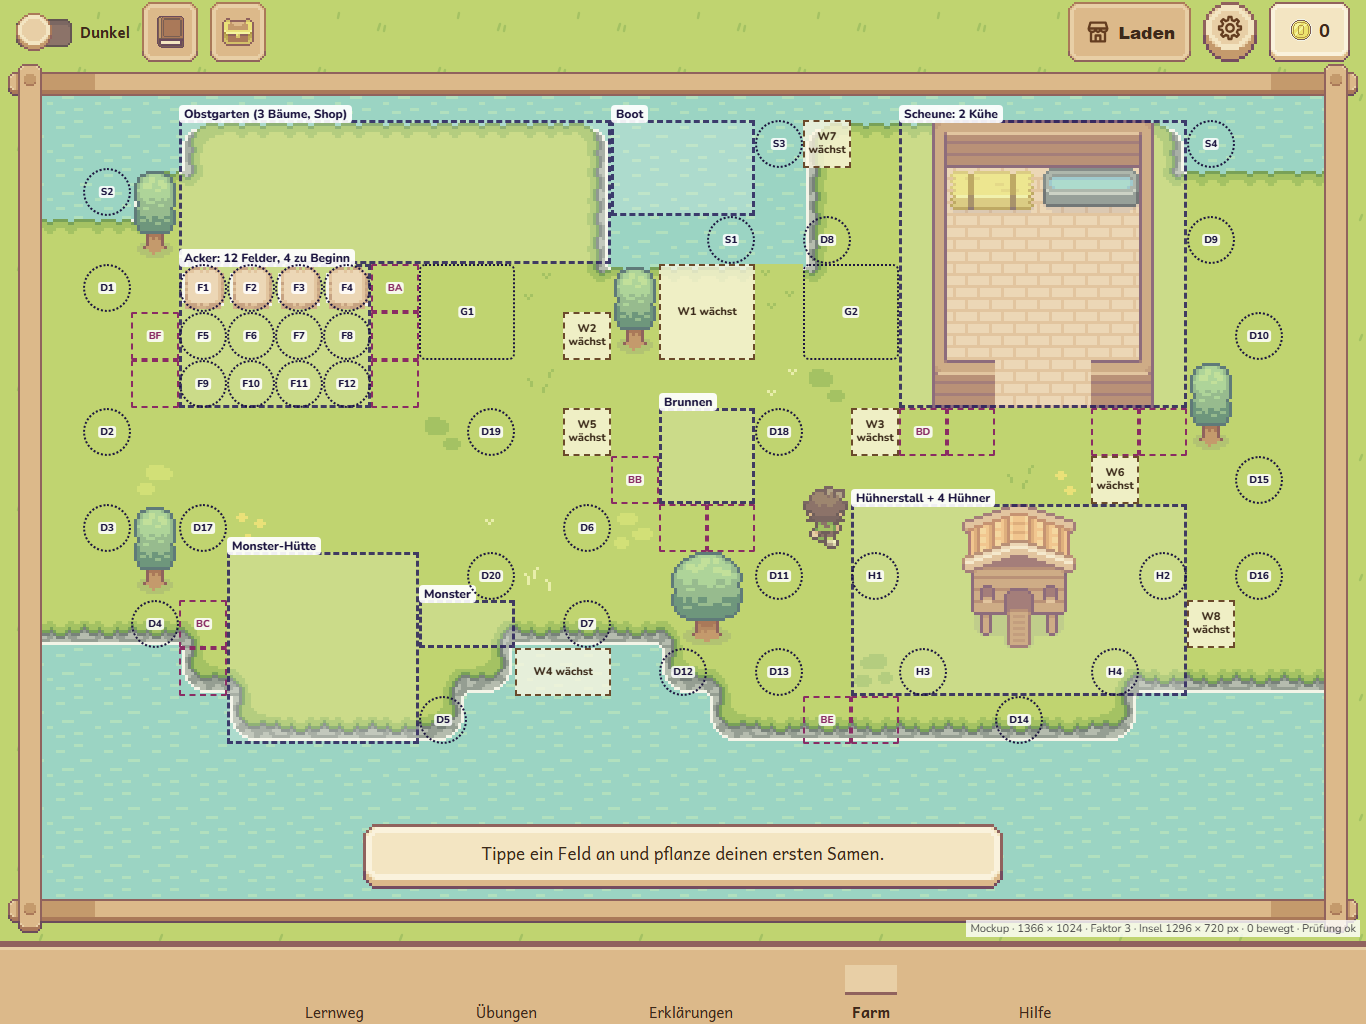
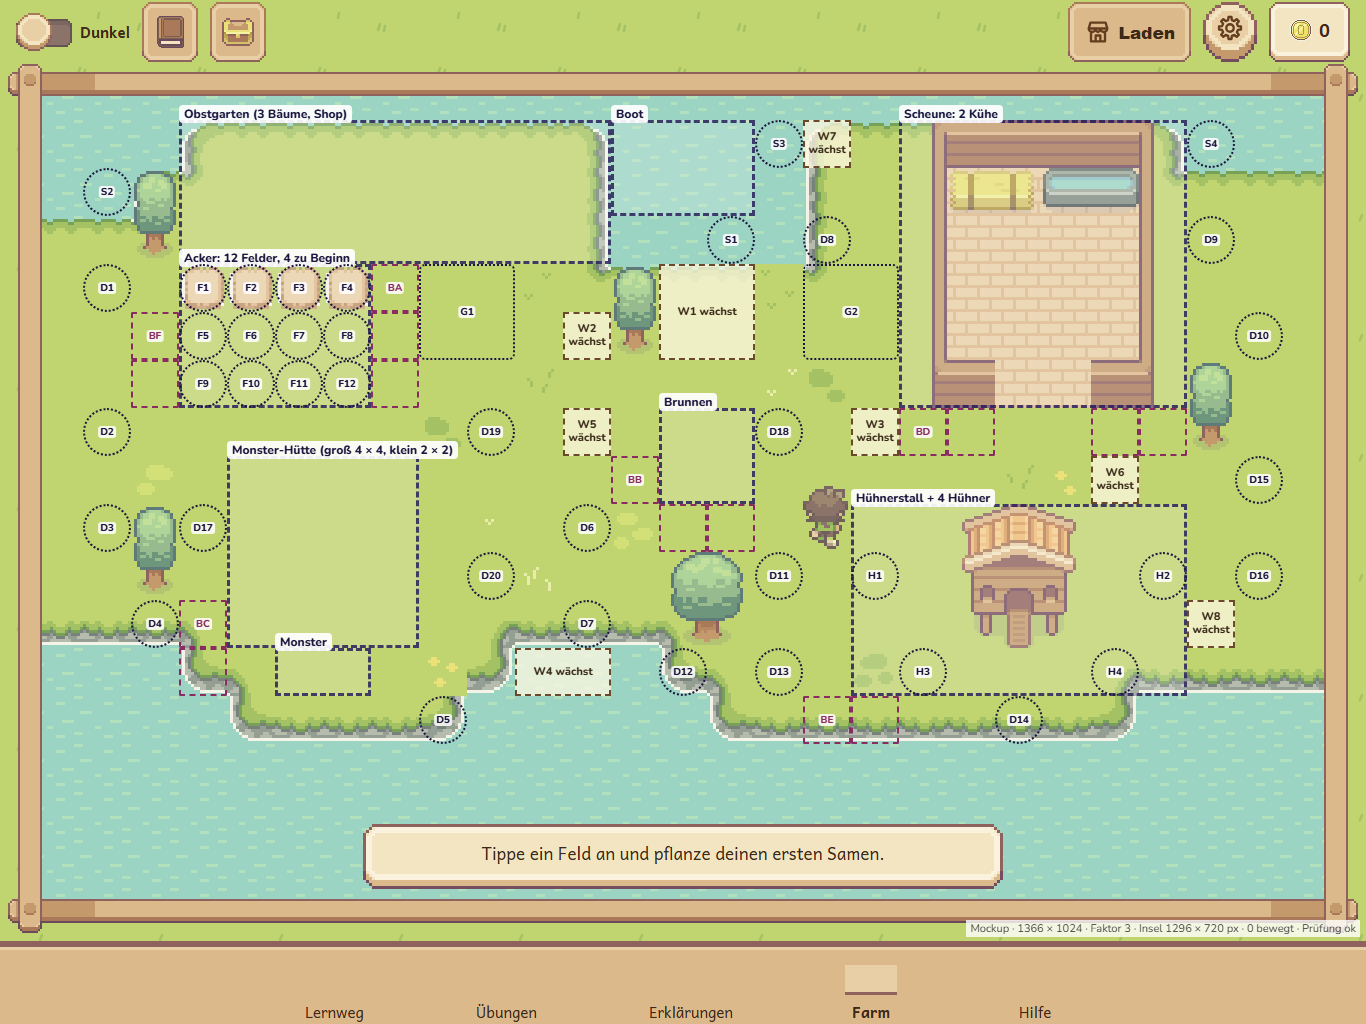
Farm-Mockups: Monster-Hütte weiter oben, kleine Hütte für kleine Monster

Changed region(s): [[0.1537, 0.4062, 0.3382, 0.5625], [0.1537, 0.5625, 0.3997, 0.7188]]

diff --git a/docs/farm/farm-mockup.js b/docs/farm/farm-mockup.js
@@ -38,9 +38,12 @@ const SCHEUNE = { x: 18, y: 1, b: 6, h: 6 }
 const KUEHE = [{ x: 19, y: 3 }, { x: 21, y: 3 }] // je 2 × 2, höchstens 2 (Jazz 2026-11-17)
 const STALL = { x: 19, y: 9 } // 3 × 3
 const HUEHNER = [{ x: 17, y: 10 }, { x: 23, y: 10 }, { x: 18, y: 12 }, { x: 22, y: 12 }]
-const HUETTE = { x: 4, y: 10 } // Bild 4 × 4
-// Jazz 2026-11-17: Monster läuft nie ins Wasser. Laufweg 2 Kacheln vor der Hütte; links, rechts und darunter ist Gras (Prüfung unten)
-const MONSTER = { x: 8, y: 11 }
+// Jazz 2026-11-17: Hütte weiter oben, der Eingang zeigt nicht mehr aufs Wasser. Platz 4 × 4 für die große Hütte (heutiges Bild);
+// kleine Monster (Gespenst, Spinnen, Maus) bekommen eine kleine Hütte 2 × 2 unten mittig auf diesem Platz (neue Grafik)
+const HUETTE = { x: 4, y: 8 }
+const HUETTE_KLEIN = { x: 5, y: 10 }
+// Jazz 2026-11-17: Monster läuft nie ins Wasser. Laufweg vor der Tür; links, rechts und darunter ist Gras (Prüfung unten)
+const MONSTER = { x: 5, y: 12 }
 const BRUNNEN = { x: 13, y: 7 } // 2 × 2
 const BOOT = { x: 12, y: 1 } // 3 × 2 im Wasser
 const FIGUR = { x: 16, y: 8 } // Füße auf Zeile 9
@@ -71,7 +74,7 @@ const BAEUME_FEST = [{ g: 'baum', x: 13, y: 10, b: 2, h: 2 }, { g: 'baum_klein',
   { g: 'baum_klein', x: 12, y: 4, b: 1, h: 2 }, { g: 'baum_klein', x: 2, y: 9, b: 1, h: 2 },
   // auf den Landstreifen (nur Landschaft)
   { g: 'baum', x: -3, y: 6, b: 2, h: 2 }, { g: 'baum_klein', x: -2, y: 9, b: 1, h: 2 }, { g: 'baum', x: 28, y: 5, b: 2, h: 2 }, { g: 'baum_klein', x: 27, y: 9, b: 1, h: 2 }]
-const GRAS_DEKO = [[10, 6], [8, 7], [4, 9], [10, 4], [12, 9], [15, 6], [17, 12], [21, 8], [15, 4], [2, 8], [10, 10], [9, 9], [20, 8], [16, 6], [-2, 4], [29, 8]]
+const GRAS_DEKO = [[10, 6], [8, 7], [8, 12], [10, 4], [12, 9], [15, 6], [17, 12], [21, 8], [15, 4], [2, 8], [10, 10], [9, 9], [20, 8], [16, 6], [-2, 4], [29, 8]]
 
 // ---------- Selbstprüfung: alles auf Gras, nichts überdeckt sich, Tippflächen 48 px überlappen nicht ----------
 const belegt = new Map()
@@ -196,7 +199,7 @@ async function zeichnen() {
     zone('Acker: 12 Felder, 4 zu Beginn', 3, 4, 4, 3)
     zone('Scheune: 2 Kühe', SCHEUNE.x, SCHEUNE.y, SCHEUNE.b, SCHEUNE.h)
     zone('Hühnerstall + 4 Hühner', 17, 9, 7, 4)
-    zone('Monster-Hütte', HUETTE.x, HUETTE.y, 4, 4)
+    zone('Monster-Hütte (groß 4 × 4, klein 2 × 2)', HUETTE.x, HUETTE.y, 4, 4)
     zone('Monster', MONSTER.x, MONSTER.y, 2, 1)
     zone('Boot', BOOT.x, BOOT.y, 3, 2)
     zone('Brunnen', BRUNNEN.x, BRUNNEN.y, 2, 2)
@@ -246,12 +249,13 @@ function volleFarm(p, setze, platzhalter) {
   platzhalter('Napf leer', 23, 9, 1, 1)
   platzhalter('Trog leer', 21, 2, 2, 1)
   // Monster (Maus) vor seiner Hütte (Dach Nr. 3), läuft hin und her; sein Geschenk liegt daneben und hüpft
-  ding(sprite('huette', 64, 64, 192, 192, 3, m), HUETTE.x, HUETTE.y, 4, 4)
+  // Die Maus ist ein kleines Monster: kleine Hütte (im Mockup das heutige Bild halb so groß, im Spiel eine neue Grafik 32 × 32)
+  ding(sprite('huette', 64, 64, 192, 192, 3, m / 2), HUETTE_KLEIN.x, HUETTE_KLEIN.y, 2, 2)
   ding(sprite('monster_maus', 16, 16, 208, 16, 0, m, 'laufen'), MONSTER.x, MONSTER.y, 1, 1, true)
   // Liegendes hüpft: Ei, Milch, Monster-Geschenk (Samentüte)
   ding(sprite('ei', 16, 16, 16, 16, 0, m, 'huepfen'), 18, 11, 1, 1, true)
   ding(sprite('milch', 16, 16, 16, 16, 0, m, 'huepfen'), 19, 5, 1, 1, true)
-  ding(sprite('saatgut', 16, 16, 32, 208, 4, m, 'huepfen'), 9, 12, 1, 1, true)
+  ding(sprite('saatgut', 16, 16, 32, 208, 4, m, 'huepfen'), 8, 11, 1, 1, true)
   // Deko: 14 kleine Plätze mit vorhandenen Bildern, 6 mit neuen aus den Paketen (Platzhalter, Liste in layout-leer.md Abschnitt 8)
   const vorhanden = ['deko_busch', 'deko_blume_gelb', 'deko_pilz', 'deko_stein', 'deko_blume_lila', 'deko_pilzhaus', 'deko_katze_rosa', 'deko_katze_blau']
   const neu = ['Sonnen-blume', 'Schild', 'Baum-stumpf', 'Laterne', 'Brief-kasten', 'Fels']

diff --git a/docs/farm/layout-leer.md b/docs/farm/layout-leer.md
@@ -66,7 +66,7 @@ So ist gerechnet:
 | **Obstgarten** | links oben (y 1 bis 3) | 3 Obstbäume: Orange, Pfirsich, Birne | über dem Acker bzw. vor dem Stall | jetzt alle drei nebeneinander |
 | **Scheune** | rechts oben (x 18 bis 23, y 1 bis 6) | **2 Kühe** | 4 Kühe | Jazz: höchstens 2 |
 | **Hühnerstall** | rechts unten (Stall bei x 19, y 9) | **4 Hühner** rund um den Stall | 4 | je mit freier Kachel dazwischen |
-| **Monster-Hütte** | links unten (x 4 bis 7, y 10 bis 13) | Hütte und Laufweg des Monsters (x 8 bis 9, y 11) | links unten | **Das Monster läuft nie ins Wasser** (Jazz). Links und rechts vom Laufweg liegen Gras oder die Hütte, darunter Gras. Das Mockup prüft das. |
+| **Monster-Hütte** | links, unter dem Acker (Platz x 4 bis 7, y 8 bis 11) | Hütte und Laufweg des Monsters vor der Tür (x 5 bis 6, y 12) | links unten am Ufer | **Weiter oben, der Eingang zeigt nicht aufs Wasser** (Jazz). **Das Monster läuft nie ins Wasser:** links und rechts vom Laufweg und darunter liegt Gras; das Mockup prüft das. **Zwei Größen:** große Monster (Rübchen, Schleime, Fledermaus) wohnen in der heutigen Hütte (4 × 4); kleine Monster (Gespenst, Spinnen, Maus) bekommen eine **kleine Hütte 2 × 2** unten mittig auf dem Platz. Die kleine Hütte ist eine neue Grafik (32 × 32, in den 9 Dachfarben); im Paket gibt es die Hütte nur in einer Größe. |
 | **Brunnen** | Mitte (x 13 bis 14, y 7 bis 8) | 1 | Mitte | |
 | **Boot** | Bucht oben Mitte (x 12 bis 14, y 1 bis 2) | 1 (im Wasser) | Bucht oben | |
 | **Deko klein** (1 × 1) | verstreut: am Rand, beim Baum, am Brunnen, am Hofweg, am Ufer | **20 Plätze** D1 bis D20 | 18 | Steine, Pilze, Schilder, Baumstumpf, Laterne, Briefkasten und Ähnliches. Bewusst nicht in Reihen (Jazz). |
@@ -177,6 +177,7 @@ Preise und Freischaltung folgen in Teilaufgabe 5, die genaue Auswahl in Teilaufg
 | E5 | Shop-Knopf auf der Farm | Der Knopf **ersetzt** den Menüpunkt Shop unten. Das Buch im Sammelalbum-Knopf wird kleiner. |
 | E6 | Monster | läuft nie ins Wasser (Laufweg vor der Hütte, ringsum Gras) |
 | E7 | Überschrift „Meine Farm“ | entfällt auf der Farm |
+| E10 | Monster-Hütte | weiter oben, Eingang nicht am Wasser; kleine Hütte (2 × 2, neue Grafik) für Gespenst, Spinnen und Maus |
 | E9 | Deko-Verteilung und Blumen | Baumstumpf, Laterne, Briefkasten, Fels verstreut statt in einer Reihe; 6 Blumenbeete mit 16 Plätzen; mehr Blumen im Shop |
 | E8 | Wasser-Platz S2 lag unten im Meldungsfeld | Wasser-Plätze nur noch oben; unter der Insel liegt nichts Antippbares im Wasser (Prüfung im Mockup) |
 

diff --git a/docs/farm/layout-voll.md b/docs/farm/layout-voll.md
@@ -28,7 +28,7 @@ Die Karte und die Plätze stammen aus Teilaufgabe 2 (`layout-leer.md`). Hier ist
 | Obstgarten | 3 Obstbäume mit Früchten |
 | Scheune | 2 Kühe, davon eine hungrig (Trog leer), daneben 1 Flasche Milch zum Einsammeln |
 | Hühnerstall | 4 Hühner, 2 davon hungrig (Napf leer), 1 Ei zum Einsammeln |
-| Monster | Hütte, Monster vor der Hütte, sein Geschenk (Samentüte) liegt daneben |
+| Monster | Maus (kleines Monster) mit kleiner Hütte (im Mockup die heutige Hütte halb so groß), Monster vor der Tür, sein Geschenk (Samentüte) liegt daneben |
 | Brunnen, Boot | beide gekauft |
 | Blumenbeete (6 Beete, 16 Plätze) | alle bepflanzt, gemischt aus heutigen Blumen-Bildern und neuen Blumen (Platzhalter) |
 | Deko klein (20) | 14 mit heutigen Bildern, 6 mit neuen Bildern aus den Paketen (im Mockup als Platzhalter) |

diff --git a/docs/umbau/STATUS.md b/docs/umbau/STATUS.md
@@ -557,4 +557,6 @@ Sechs Teilaufgaben (1 Analyse, 2 Layout leer, 3 Layout voll, 4 Dekorationen, 5 M
 - **Nachtrag Jazz:** Baumstumpf, Laterne, Briefkasten, Fels verstreut (Baum, Brunnen, Hofweg, Ufer) statt in einer Reihe; mehr Blumen:
   6 Blumenbeete mit 16 Plätzen (Blumen eines Beets dicht, Auswahl je Beet), Blumen-Vorschläge aus den Paketen in `layout-leer.md` Abschnitt 8.
   Selbstprüfung in allen Größen ok.
+- **Nachtrag Jazz:** Monster-Hütte weiter oben (Platz 4 × 4 bei x 4, y 8; Eingang nicht mehr am Wasser, Laufweg vor der Tür auf Gras);
+  kleine Monster (Gespenst, Spinnen, Maus) bekommen eine kleine Hütte 2 × 2 (neue Grafik, das Paket hat nur eine Größe).
 - **Nächster Schritt:** Teilaufgabe 4 (Dekorationskonzept).
